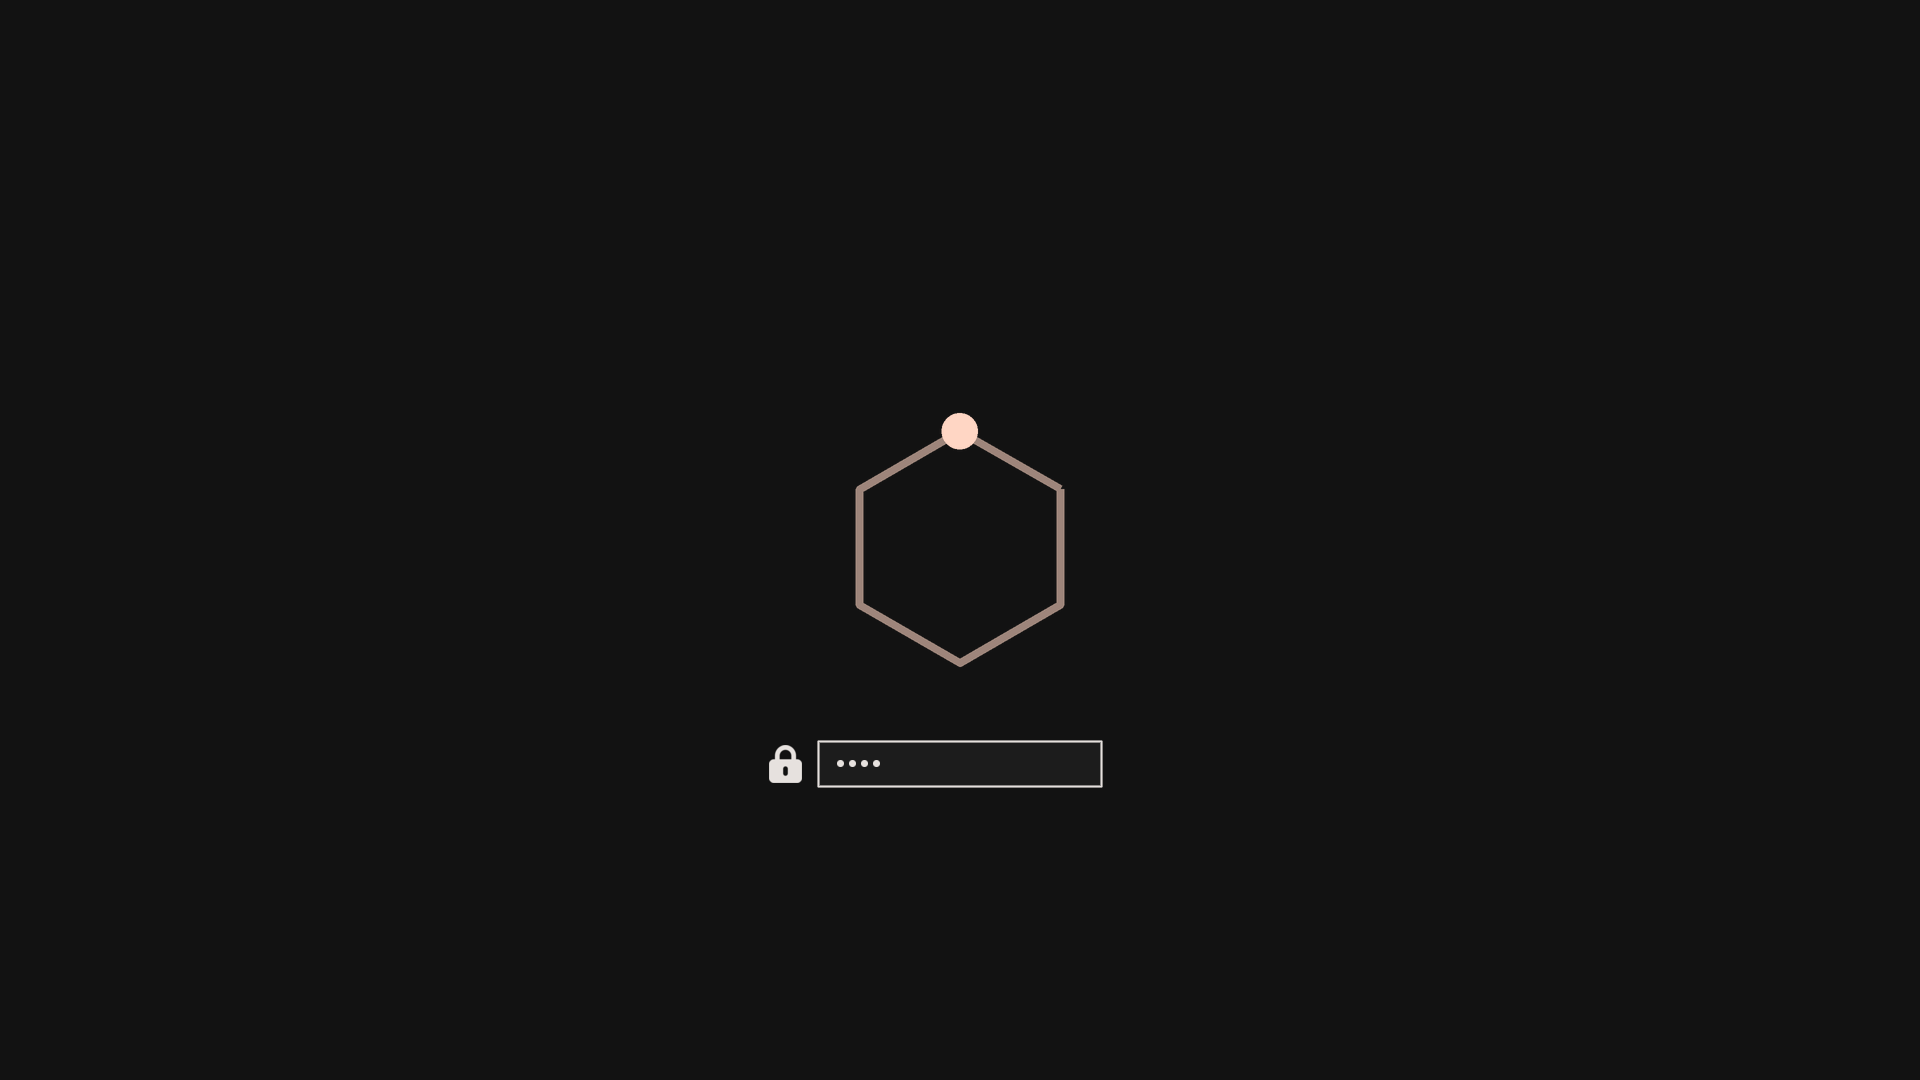
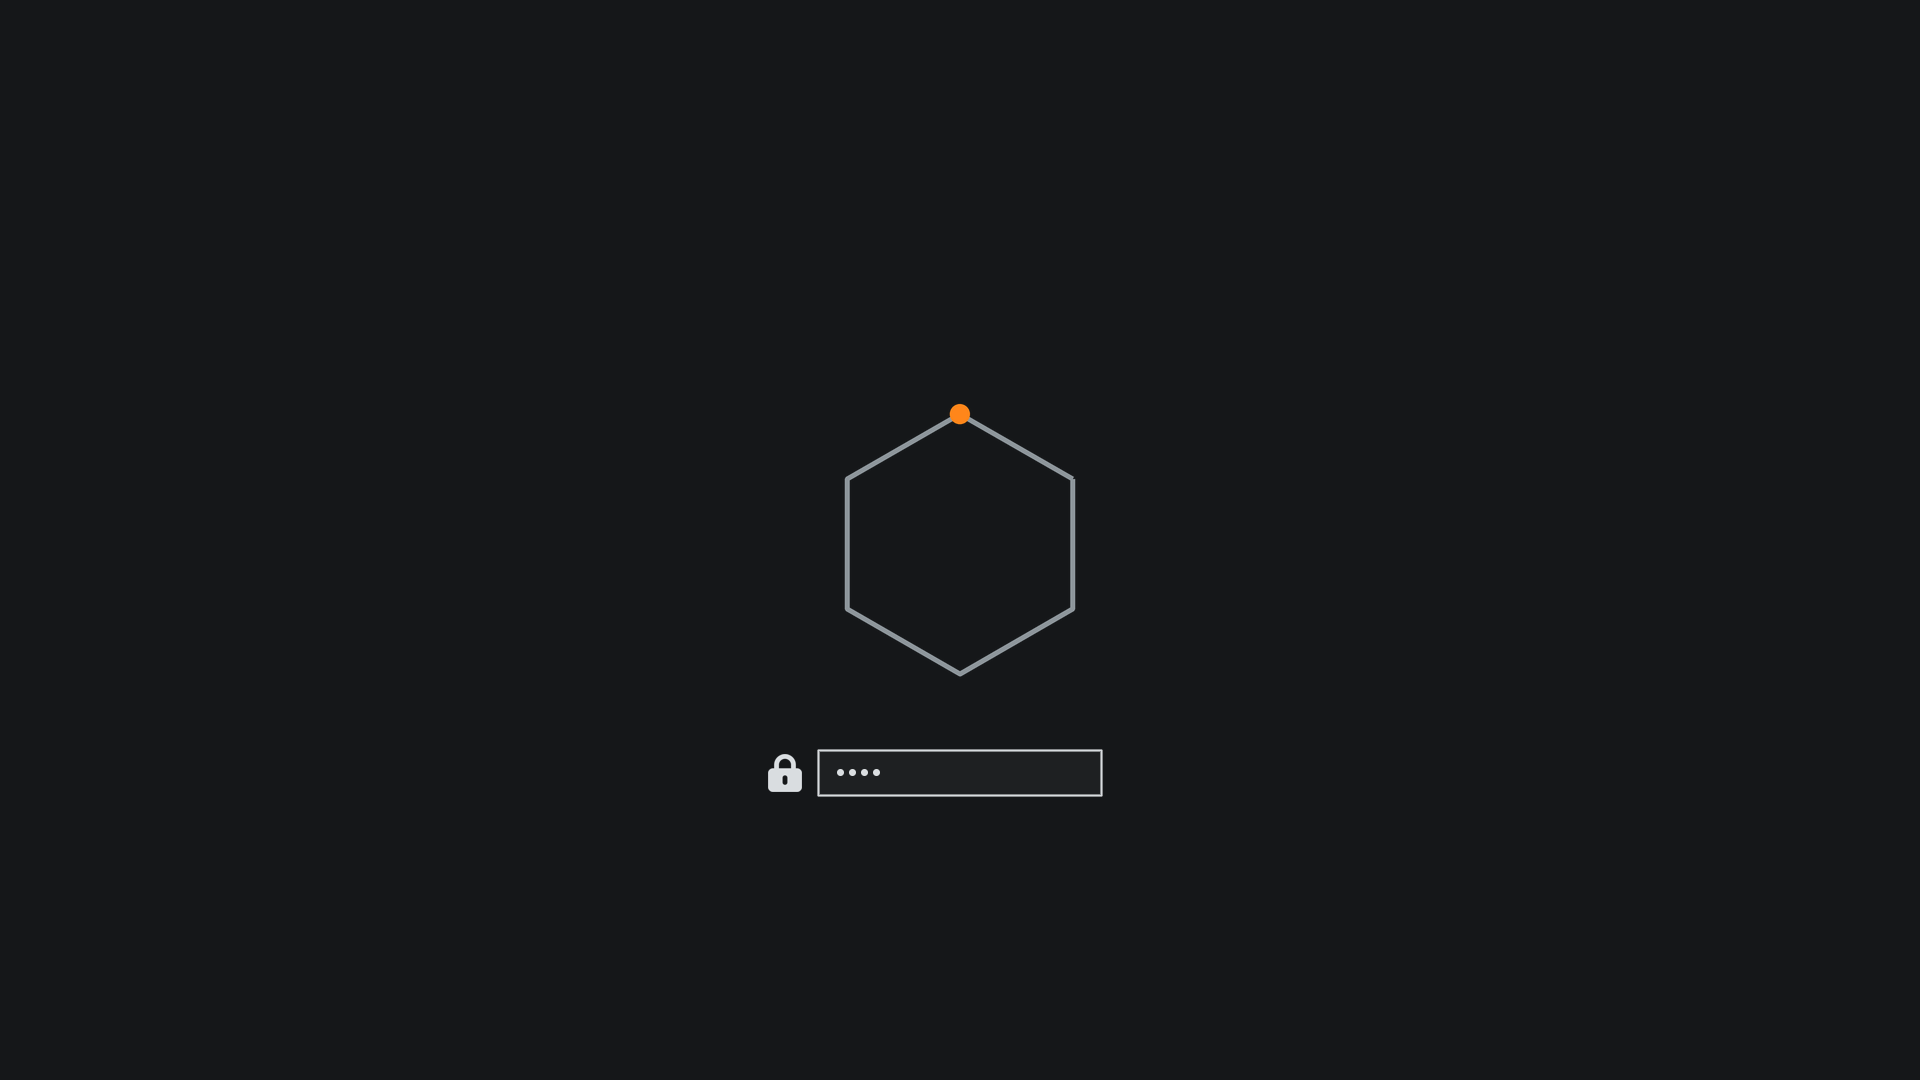
Rework Carbon in vivid orange on steel
Accent #ff861a on #151719, with the wallpapers, previews, unlock mark
and lock card redrawn to match.

diff --git a/tools/gen_unlock_carbon.py b/tools/gen_unlock_carbon.py
@@ -1,11 +1,19 @@
-import math, sys
-from unlock_centre import centre
+"""Draw Carbon's steel hexagon and orange light for the unlock screen."""
+
+import math
+import sys
 from PIL import Image, ImageDraw
-SS = 4; W, H = 900, 180; K = 2  # output scale
-a = Image.new("L", (W*SS, H*SS), 0); d = ImageDraw.Draw(a)
-cx, cy, s = 90*SS, 96*SS, 58*SS
-pts = [(cx + s*math.cos(math.radians(60*k - 30)), cy + s*math.sin(math.radians(60*k - 30))) for k in range(7)]
-d.line(pts, fill=150, width=4*SS, joint="curve")
-vx, vy = pts[5]; r = 9*SS
-d.ellipse([vx-r, vy-r, vx+r, vy+r], fill=255)
-img = Image.new("RGBA", (W*K, H*K), (255, 214, 196, 0)); img.putalpha(a.resize((W*K, H*K), Image.LANCZOS)); centre(img).save(sys.argv[1])
+from unlock_centre import centre
+
+SS = 4
+im = Image.new("RGBA", (360 * SS, 360 * SS))
+d = ImageDraw.Draw(im)
+cx = cy = 180 * SS
+r = 130 * SS
+pts = [(cx + r * math.cos(math.radians(60*k-30)),
+        cy + r * math.sin(math.radians(60*k-30))) for k in range(7)]
+d.line(pts, fill=(184, 194, 201, 190), width=5 * SS, joint="curve")
+x, y = pts[5]
+d.ellipse((x-10*SS, y-10*SS, x+10*SS, y+10*SS), fill=(255, 134, 26, 255))
+im = im.resize((360, 360), Image.Resampling.LANCZOS)
+centre(im).save(sys.argv[1])

diff --git a/tools/gen_pair.py b/tools/gen_pair.py
@@ -18,8 +18,8 @@ PAL = {
                    accent=(0.95, 0.68, 0.40), light=(1.0, 0.93, 0.82), tint=(0.85, 0.6, 0.35)),
     "northline": dict(base=(0.022, 0.030, 0.036), grey=(0.78, 0.85, 0.88),
                       accent=(0.43, 0.91, 0.72), light=(0.88, 1.0, 0.95), tint=(0.3, 0.75, 0.6)),
-    "carbon": dict(base=(0.032, 0.031, 0.031), grey=(0.84, 0.82, 0.80),
-                   accent=(1.0, 0.48, 0.33), light=(1.0, 0.80, 0.68), tint=(0.8, 0.4, 0.25), glow=1.8),
+    "carbon": dict(base=(0.068, 0.073, 0.078), grey=(0.72, 0.76, 0.79),
+                   accent=(1.0, 0.525, 0.102), light=(1.0, 0.65, 0.25), tint=(0.60, 0.25, 0.04), glow=1.5),
     "graphite": dict(base=(0.028, 0.032, 0.045), grey=(0.80, 0.84, 0.90),
                      accent=(0.44, 0.68, 1.0), light=(0.85, 0.92, 1.0), tint=(0.35, 0.5, 0.8)),
 }[THEME]
